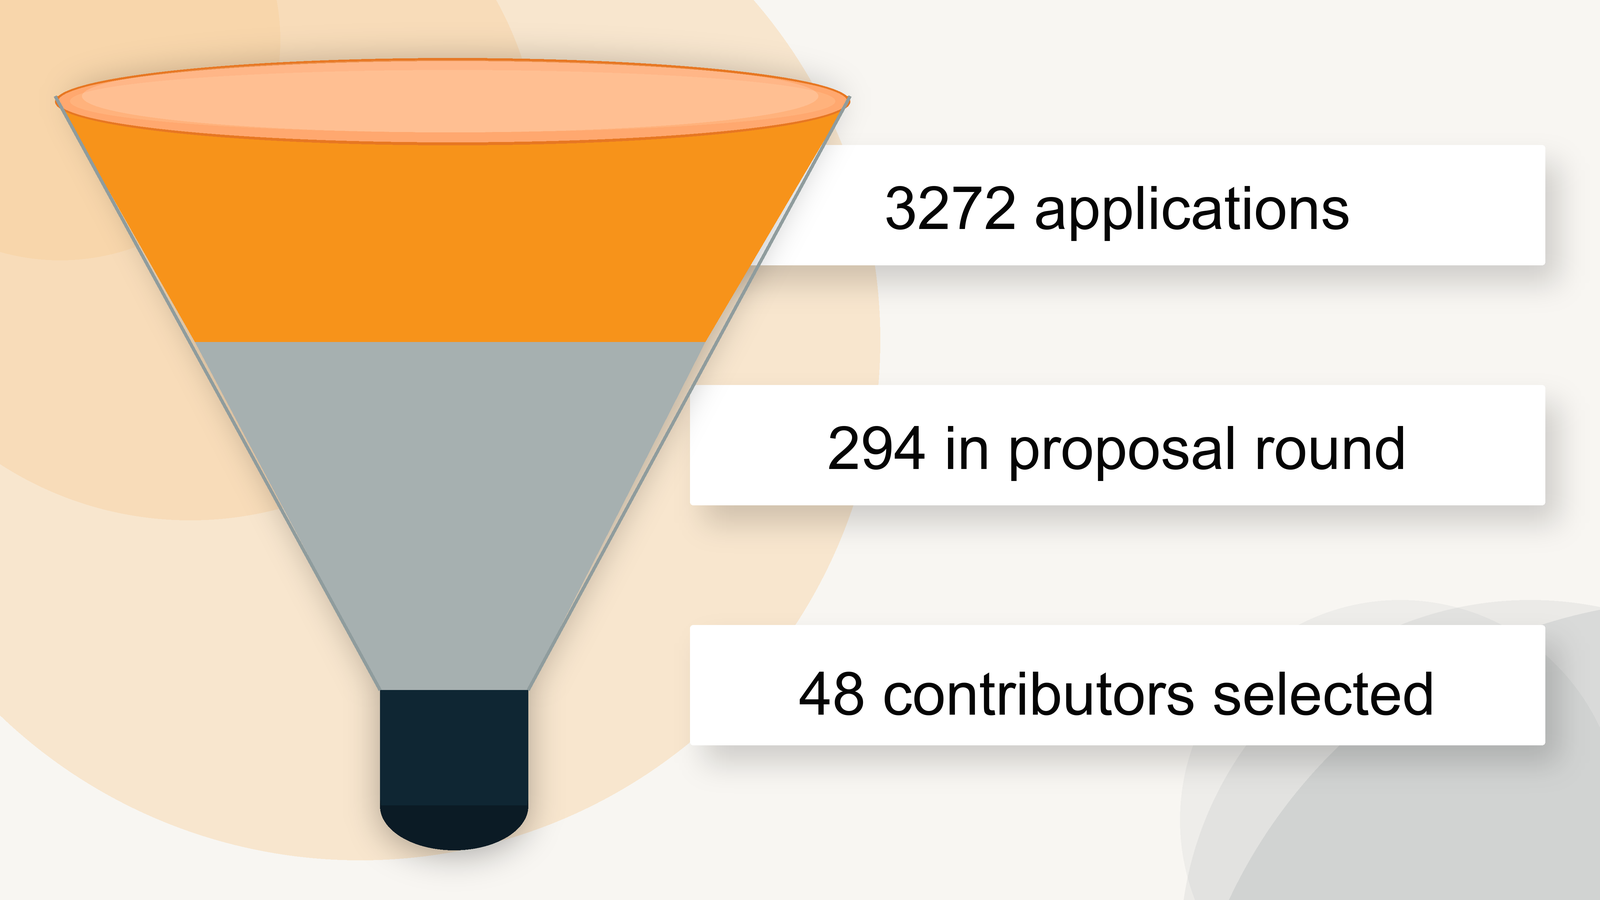
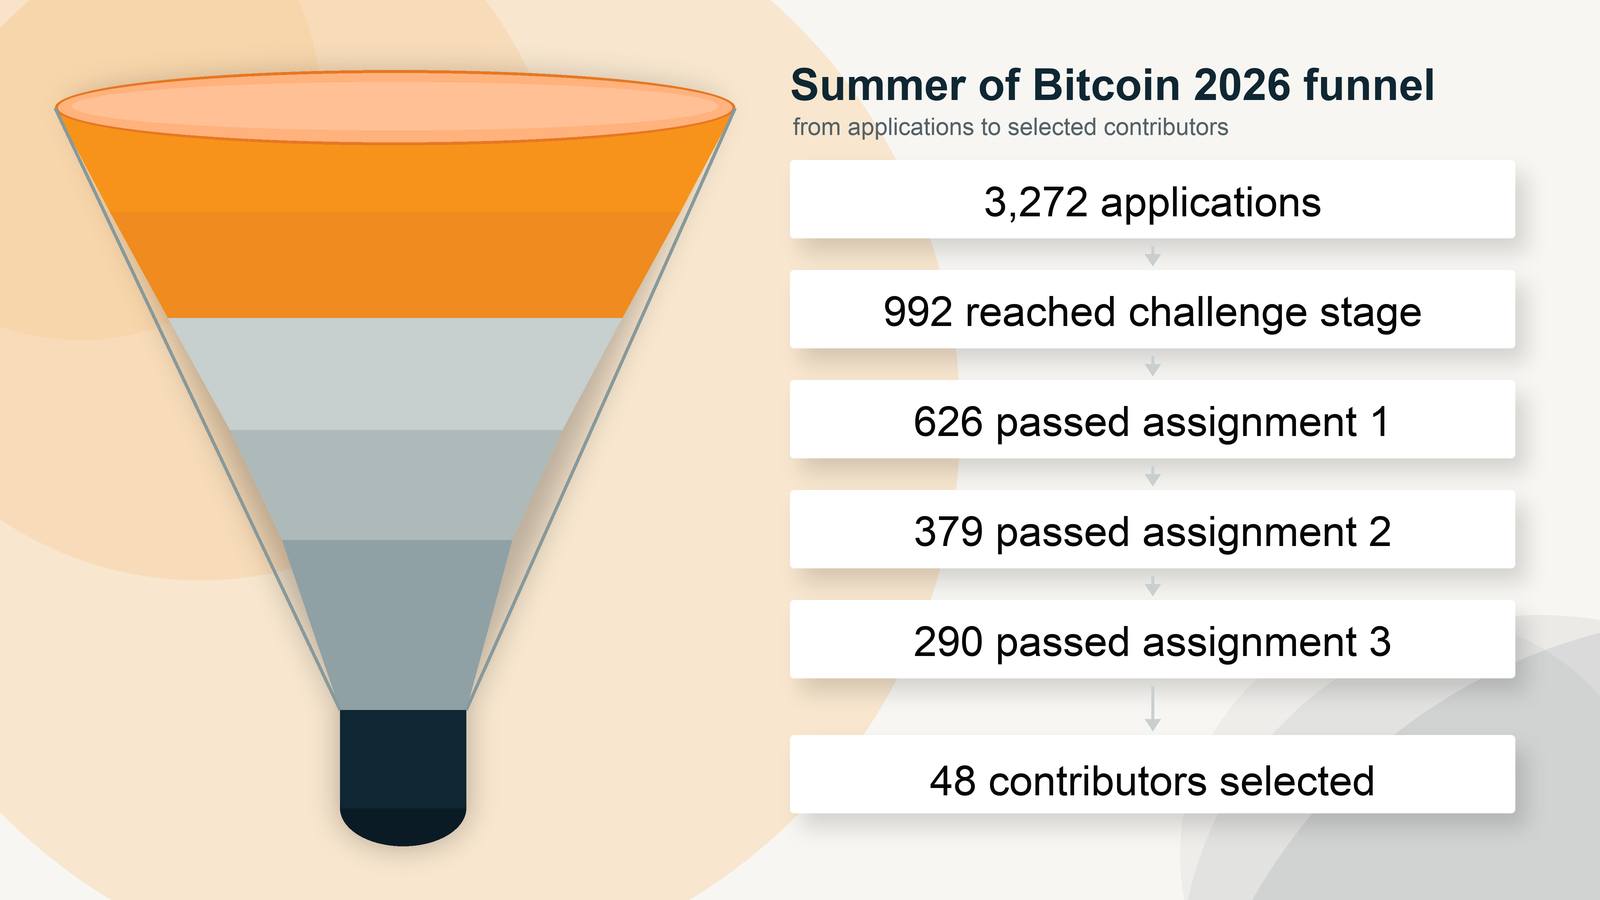
Highlight 2026 challenge round in announcement

diff --git a/_posts/2026-06-02-summer-of-bitcoin-2026-announcing-the-next-generation-of-bitcoin-builders.md b/_posts/2026-06-02-summer-of-bitcoin-2026-announcing-the-next-generation-of-bitcoin-builders.md
@@ -11,19 +11,34 @@ image: "./assets/images/blog_content/summer-of-bitcoin-2026-results.png"
 
 We are excited to announce the results for Summer of Bitcoin 2026!
 
-This year, students applied to the developer and designer tracks from around the world. Applicants moved from application review into a multi-week challenge round, then into a project-specific proposal round where mentors and the organizing team reviewed their work for practical bitcoin understanding, shipping ability, written communication, and fit with open-source project needs.
+This year, students applied to the developer and designer tracks from around the world. We also deliberately leveled up the application stage for an AI-native world. AI tools have made it easier than ever to produce polished portfolios, code samples, and quick one-off submissions. Instead of trying to screen AI out, we made the challenge round difficult enough that candidates had to use every tool available well.
 
-Here are some notable results from this year's application process:
+The point was to see who could use AI to deepen their understanding of the bitcoin protocol, validate their assumptions, accelerate real development, and still explain trade-offs clearly. The strongest applicants were not just generating code. They were using AI as a learning and building partner while showing protocol knowledge, judgment, and the ability to ship reviewable work.
+
+For developer applicants, this meant a sequence of grueling real-world bitcoin engineering challenges:
+
+*   **Week 1: Chain Lens** - build a transaction parser and visualizer that turns raw Bitcoin transaction and block data into machine-checkable JSON and human-friendly explanations.
+*   **Week 2: Coin Smith** - build a safe PSBT transaction builder with coin selection, fee/change handling, defensive validation, and a web UI to justify the result.
+*   **Week 3: Sherlock** - build a chain analysis engine over real block data, apply privacy and wallet heuristics, generate Markdown reports, and present the findings in an interactive visualizer.
+
+For design applicants, the challenge round moved from first-time bitcoin wallet analysis to user research, persona mapping, and high-fidelity wallet interaction design around keys, backups, payment states, fees, privacy warnings, and other user-facing bitcoin flows.
+
+These were not toy problems. Some of the best submissions were technically rigorous and creative enough to be useful to non-technical users on day one. As one example from the chain-analysis challenge, a student from India built and demoed a polished visual analysis tool: [watch the walkthrough](https://www.youtube.com/watch?v=OcI5FrvTMRY).
+
+Here is what the funnel looked like:
 
 *   3,272 applicants from 51 countries and 1,813 universities
 *   992 students reached the screening and challenge stage
+*   626 students passed assignment 1
+*   379 students passed assignment 2
+*   290 students passed assignment 3
 *   294 applicants reached the proposal stage, with 379 proposal records reviewed
 *   48 student contributors selected across 25 open-source bitcoin organizations
 *   42 developer placements and 6 designer placements
 
 <figure>
 <img src="../assets/images/blog_content/summer-of-bitcoin-2026-results.png"/>
-<figcaption>48 student contributors from 6 countries were accepted to Summer of Bitcoin 2026</figcaption>
+<figcaption>Summer of Bitcoin 2026 narrowed 3,272 applications into 48 selected contributors through a multi-week challenge and proposal process</figcaption>
 </figure>
 
 The selected cohort represents Australia, Germany, India, Nigeria, Spain, and the United States. Contributors will work on bitcoin protocol infrastructure, wallets, developer tooling, privacy, testing, mining, bitcoin applications, and design projects. This year's project ideas were scoped with mentors for a 12-week full-time summer window, so students can move from onboarding to meaningful public work in code, design, research, and documentation.
@@ -35,8 +50,6 @@ Upon successful completion of their evaluations, all student contributors will r
 ---
 
 We are incredibly thankful to our 2026 program sponsors, **Spiral**, **Human Rights Foundation**, **BTrust**, and **OpenSats**, for their generous financial support towards funding student stipends and operations.
-
-We're also thankful to our service partners: **Blockstream Jade** for supporting the cohort with hardware wallets, **Unchained** for self-custody support, **River Financial** for brokerage support, and **Bitcoiner Jobs** for job listing support.
 
 We are also thankful to every mentor who reviewed proposals and helped shape student projects. Summer of Bitcoin works because open-source teams make time to turn promising students into real contributors.
 